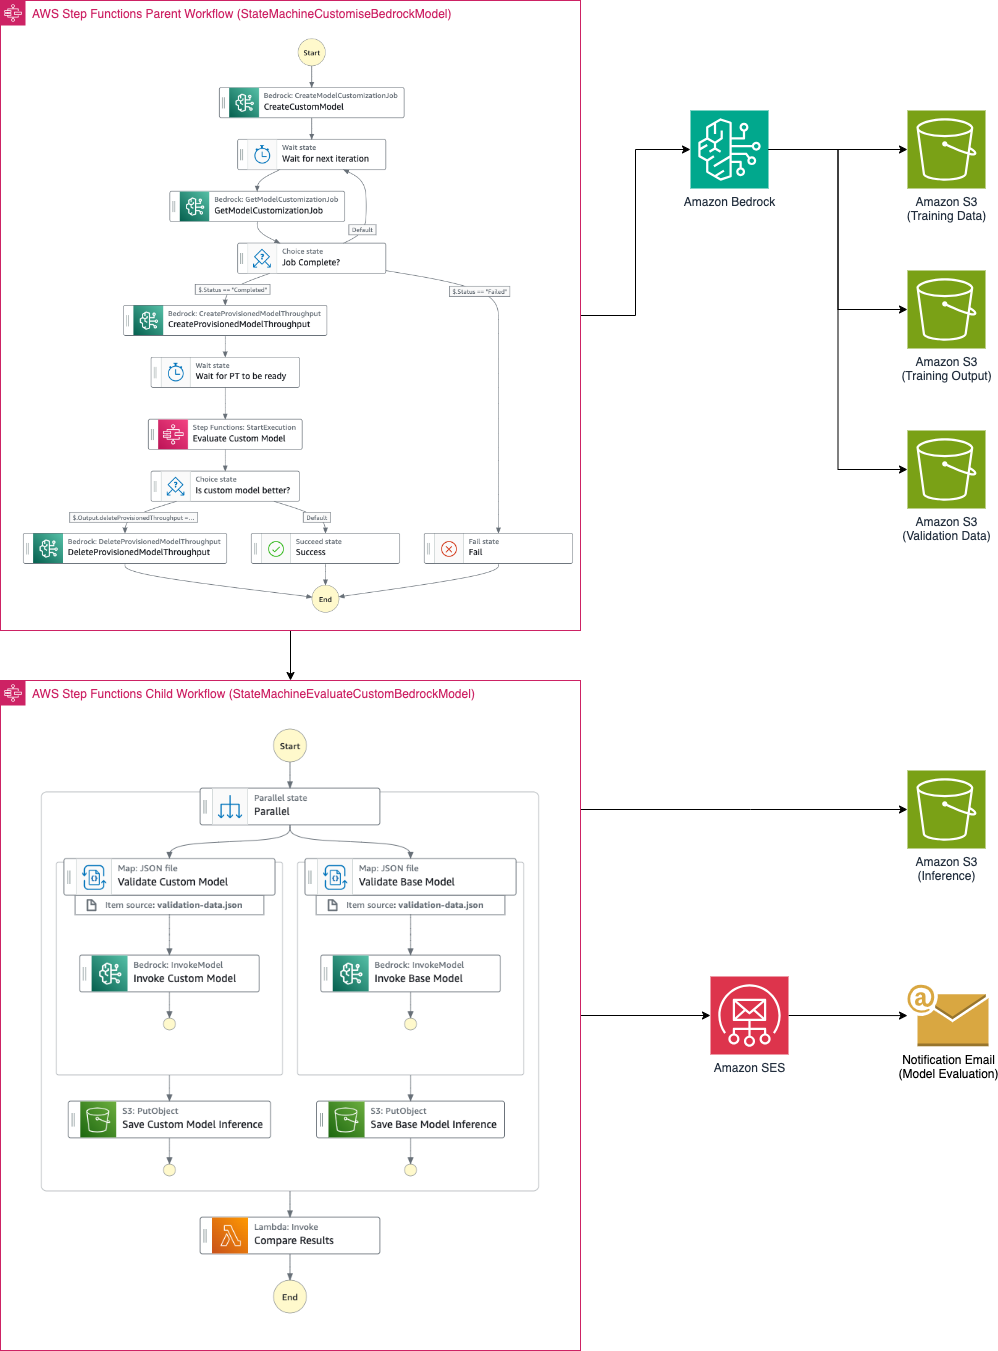
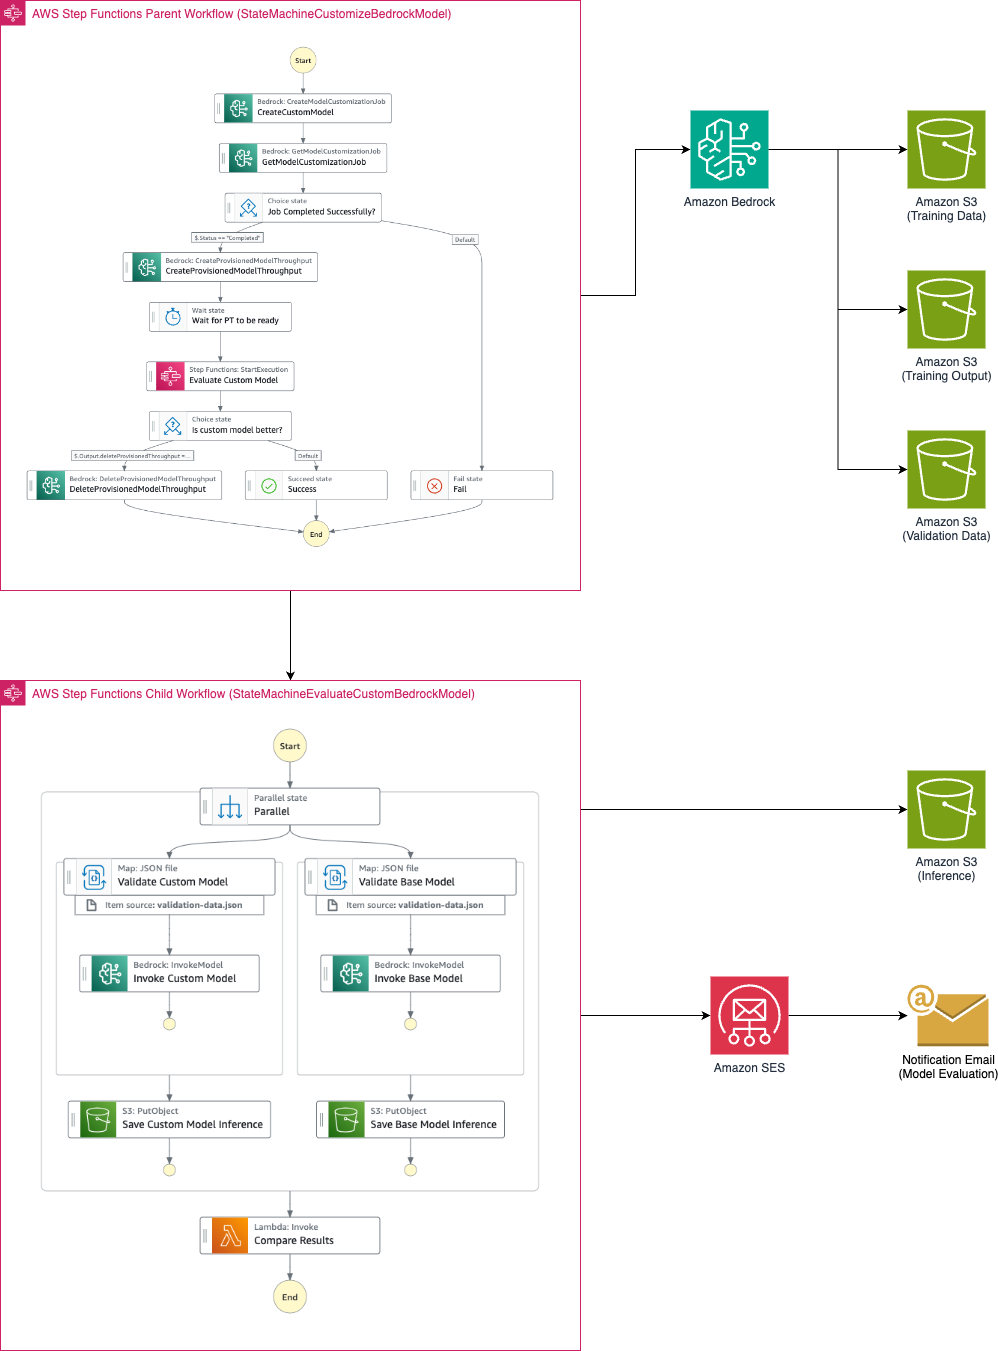
changed to synchronous invocation of CreateModelCustomizationJob API

Changed region(s): [[0.0311, 0.0311, 0.4038, 0.4663], [0.4038, 0.342, 0.497, 0.4352], [0.4659, 0.1865, 0.497, 0.2176]]

diff --git a/README.md b/README.md
@@ -4,7 +4,7 @@ The AWS Step Functions Workflow can be started using the AWS CLI or from another
 
 The SAM template deploys an AWS Step Functions workflow that creates custom model by fine tuning a foundation model. It then creates a provisioned throughput with that custom model. Next it evaluates the performance of the custom model with respect to the base model. Text summarization using Amazon Bedrock Cohere Command Light model is taken as an use case. However, the framework can be extended to fine tune other models. The SAM template contains the required resources with IAM permission to run the application.
 
-Important: this application uses various AWS services and there are costs associated with these services after the Free Tier usage - please see the [AWS Pricing page](https://aws.amazon.com/pricing/) for details. You are responsible for any AWS costs incurred. No warranty is implied in this example.
+Important: this application uses various AWS services and there are costs associated with these services after the Free Tier usage - see the [AWS Pricing page](https://aws.amazon.com/pricing/) for details. You are responsible for any AWS costs incurred. No warranty is implied in this example.
 
 ## Requirements
 
@@ -63,15 +63,14 @@ Important: this application uses various AWS services and there are costs associ
 * Upload the training data in JSON Line format into the Amazon S3 training data bucket.
 * Upload the validation data and reference inference in JSON Line format into the Amazon S3 validation data bucket.
 * Start the AWS Step Functions Workflow using the `start-execution` api command with the input payload in JSON format. 
-* The workflow invokes Amazon Bedrock's `CreateModelCustomizationJob` API to fine tune the base model with the traing data from the Amazon S3 bucket and the passed in hyper parameters.
-* The workflow periodically checks for the status of the `CreateModelCustomizationJob`.
-* Once the custom model is created, the workflow invokes Amazon Bedrock's `CreateProvisionedModelThroughput` API to create a Provisioned Throughput with no commitment.
+* The workflow invokes Amazon Bedrock's `CreateModelCustomizationJob` API synchronously to fine tune the base model with the traing data from the Amazon S3 bucket and the passed in hyper parameters.
+* After the custom model is created successfully, the workflow invokes Amazon Bedrock's `CreateProvisionedModelThroughput` API to create a Provisioned Throughput with no commitment.
 * The state machine calls the child statemachine to evaluate the performance of the custom model with respect to the base model. 
 * The child state machine invokes the base model and the customized model provisioned throughput with the same validation data from the Amazon S3 validation bucket and stores the inference into inference bucket.
 * An AWS Lambda function is called to evaluate the quality of the summarization done by custom model and the base model based on BERT score. If the custom model performs worse than the base model, the provisioned throughput is deleted.
 * A notification email is sent with the outcome. 
 
-Please refer to the architecture diagram below:
+Refer to the architecture diagram below:
 
 ![End to End Architecture](image/architecture.png)
 
@@ -84,13 +83,13 @@ Please refer to the architecture diagram below:
    aws s3 cp training-data.jsonl s3://{TrainingDataBucket}/training-data.jsonl --region {your-region}
    ```
 
-2. Upload the `validation-data.json` file to the Amazon S3 bucket using the following command. Replace `ValidationDataBucket` with the value from the `sam deploy --guided` output. Also, please update `your-region` with the region that you provided while running the SAM template.
+2. Upload the `validation-data.json` file to the Amazon S3 bucket using the following command. Replace `ValidationDataBucket` with the value from the `sam deploy --guided` output. Update `your-region` with the region that you provided while running the SAM template.
 
    ```bash
    aws s3 cp validation-data.json s3://{ValidationDataBucket}/validation-data.json --region {your-region}
    ```
 
-3. Upload the `reference-inference.json` file to the Amazon S3 bucket using the following command. Please replace `ValidationDataBucket` with the value from the `sam deploy --guided` output. Update `your-region` with the region that you provided while running the SAM template.
+3. Upload the `reference-inference.json` file to the Amazon S3 bucket using the following command. Replace `ValidationDataBucket` with the value from the `sam deploy --guided` output. Update `your-region` with the region that you provided while running the SAM template.
 
    ```bash
    aws s3 cp reference-inference.json s3://{ValidationDataBucket}/reference-inference.json --region {your-region}
@@ -101,7 +100,7 @@ Please refer to the architecture diagram below:
 ![Sender email id verification](image/EmailAddressVerificationRequest.png)
 
 
-5. Run the following AWS CLI command to start the Step Functions workflow. Please replace `StateMachineCustomizeBedrockModelArn` and `TrainingDataBucket` with the values from the `sam deploy --guided` output. Replace `UniqueModelName`, `UniqueJobName` with unique values. Change the values of the hyperparameters based on the selected model. Update `your-region` with the region that you provided while running the SAM template.
+5. Run the following AWS CLI command to start the Step Functions workflow. Replace `StateMachineCustomizeBedrockModelArn` and `TrainingDataBucket` with the values from the `sam deploy --guided` output. Replace `UniqueModelName`, `UniqueJobName` with unique values. Change the values of the hyperparameters based on the selected model. Update `your-region` with the region that you provided while running the SAM template.
 
     ```bash
     aws stepfunctions start-execution --state-machine-arn "{StateMachineCustomizeBedrockModelArn}" --input "{\"BaseModelIdentifier\": \"cohere.command-light-text-v14:7:4k\",\"CustomModelName\": \"{UniqueModelName}\",\"JobName\": \"{UniqueJobName}\",   \"HyperParameters\": {\"evalPercentage\": \"20.0\", \"epochCount\": \"1\", \"batchSize\": \"8\", \"earlyStoppingPatience\": \"6\", \"earlyStoppingThreshold\": \"0.01\", \"learningRate\": \"0.00001\"},\"TrainingDataFileName\": \"training-data.jsonl\"}" --region {your-region}
